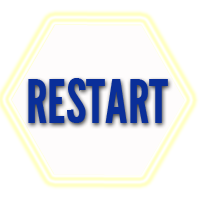
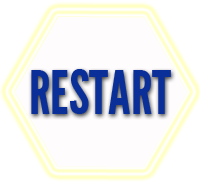
position the restart button correctly

Changed region(s): [[0.0, 0.0, 1.0, 0.973]]

diff --git a/LunarLander-RLS/AWLunarLanderGameLayer.m b/LunarLander-RLS/AWLunarLanderGameLayer.m
@@ -70,11 +70,12 @@
 		surface.position = ccp(0,0);
 		[self addChild:surface z:SURFACE_Z];
 		
-//		// Create the "restart" button
+		// Create the "restart" button
 		CCMenuItemImage *restartButton = [CCMenuItemImage itemFromNormalImage:@"restart-button.png" selectedImage:@"restart-button.png" target:self selector:@selector(pressedRestart)];
+		restartButton.anchorPoint = ccp(1,1);
 		CCMenu *menu = [CCMenu menuWithItems:restartButton, nil];
-		menu.position = ccp(winSize.width - restartButton.boundingBox.size.width - 10, winSize.height - restartButton.boundingBox.size.height - 10);
-		
+		menu.position = ccp(winSize.width - 10, winSize.height - 10);
+		menu.anchorPoint = ccp(1,1);
 		[self addChild:menu z:RESTART_BUTTON_Z];
 		
 		// The user is not yet touching the screen
